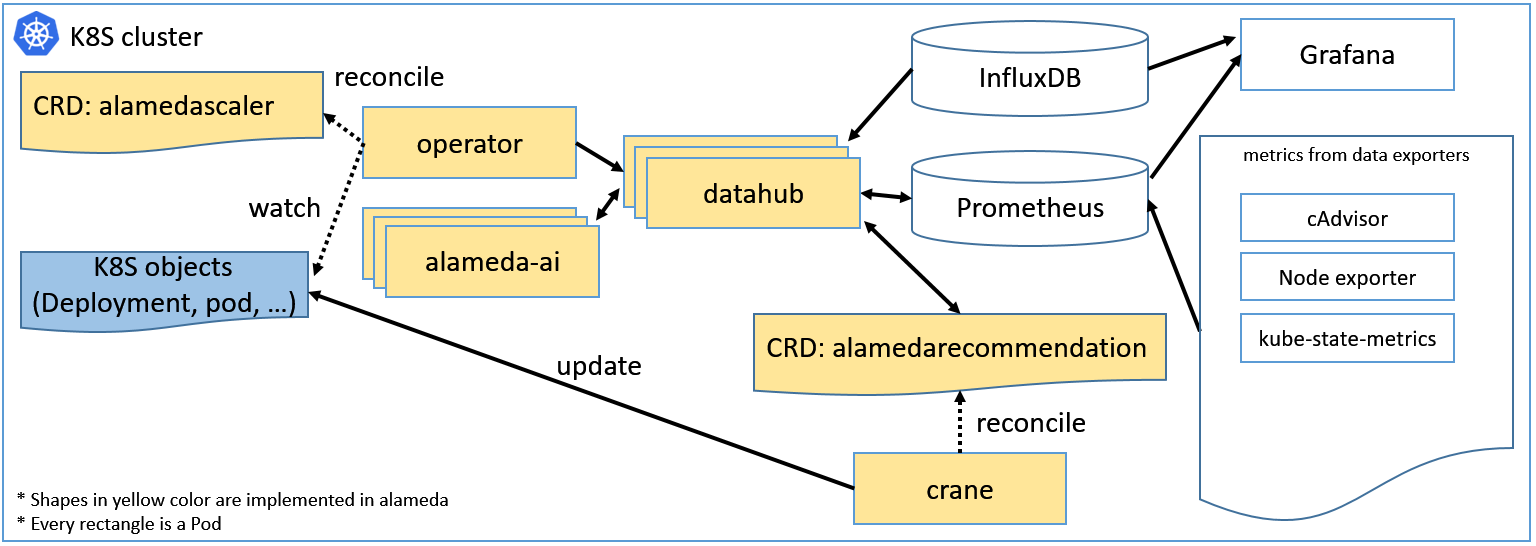
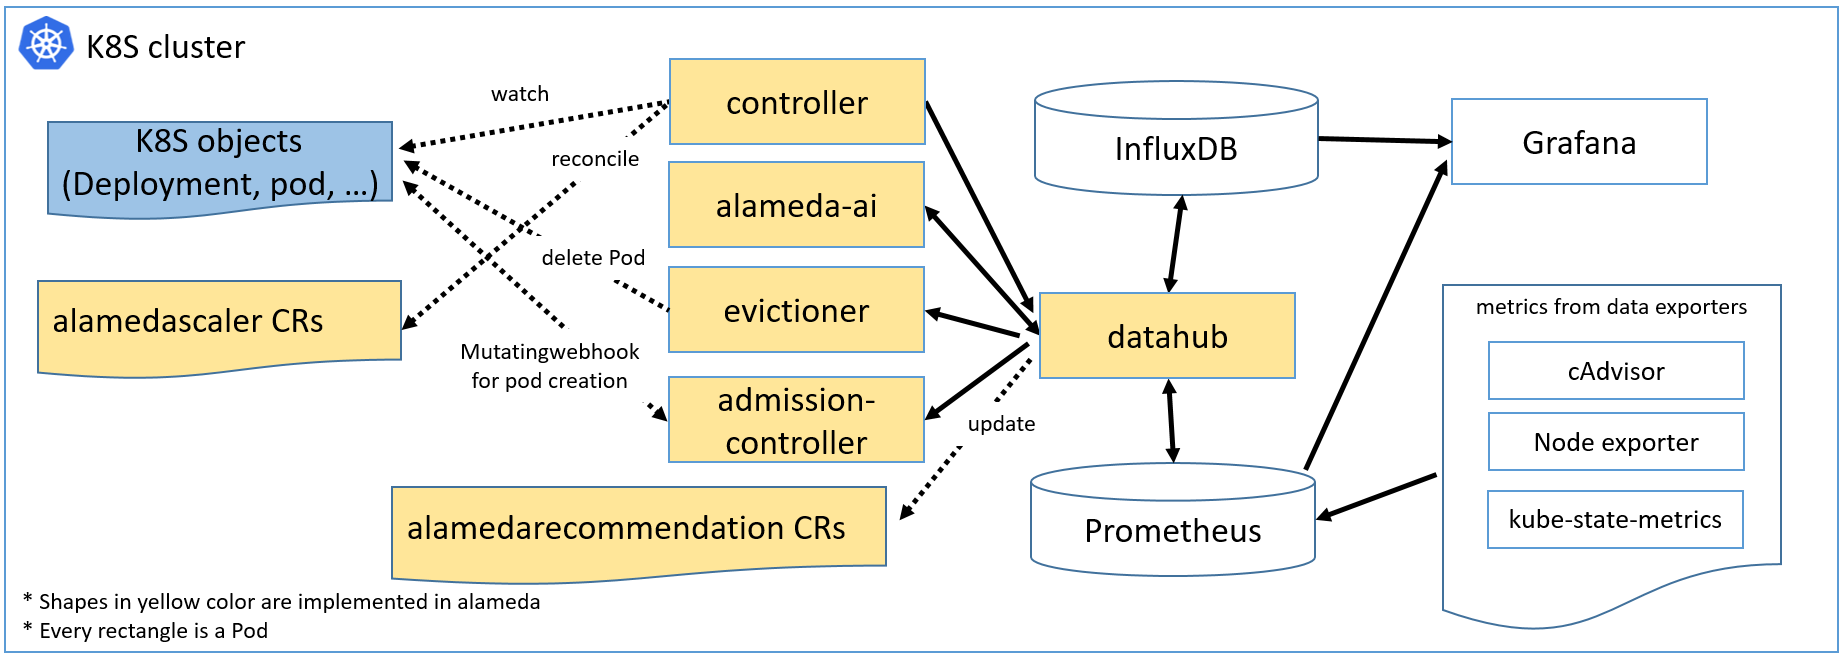
[doc] refine execution component explanation of architecture design (#422)
* refine execution component explanation of architecture design

diff --git a/design/architecture.md b/design/architecture.md
@@ -39,7 +39,8 @@ As the following figure shows, Alameda works with following components:
 3. alameda-ai: This is the machine learning engine for model training and workload prediction. It can increase its replica based on how heavy the loading is. Note: it requires a persistent volume to store trained ML models.
 4. InfluxDB: This time-series DB is used to store metrics that happened in the future and some global data of Alameda.
 5. datahub: datahub plays an API and data gateway to access Prometheus, InfluxDB and recommendation CRs. This gateway provides API to alameda-ai for reading metrics and reading/writing predictions and recommendations. Any downstream orchestrator can also access those predictions and recommendations through these API or directly react to InfluxDB and *alamedarecommendation* CRs. This components can increase its replica based on how heavy the loading is.
-6. crane (optional): Alameda can execute recommendations if this component is deployed.
+6. evictioner (optional): for executing Alameda recommendations.
+7. admission controller (optional): for executing Alameda recommendations.
 7. grafana (optional): Users can visualize the predicted workload by this component. A dashboard template of Alameda is provided.
 
 To have a minimum set of components of Alameda, users just need to deploy *operator*, *alameda-ai*, and *datahub* and provides endpoints for *datahub* to access Prometheus and InfluxDB. The following animated figure shows the decomposition of Alameda.
